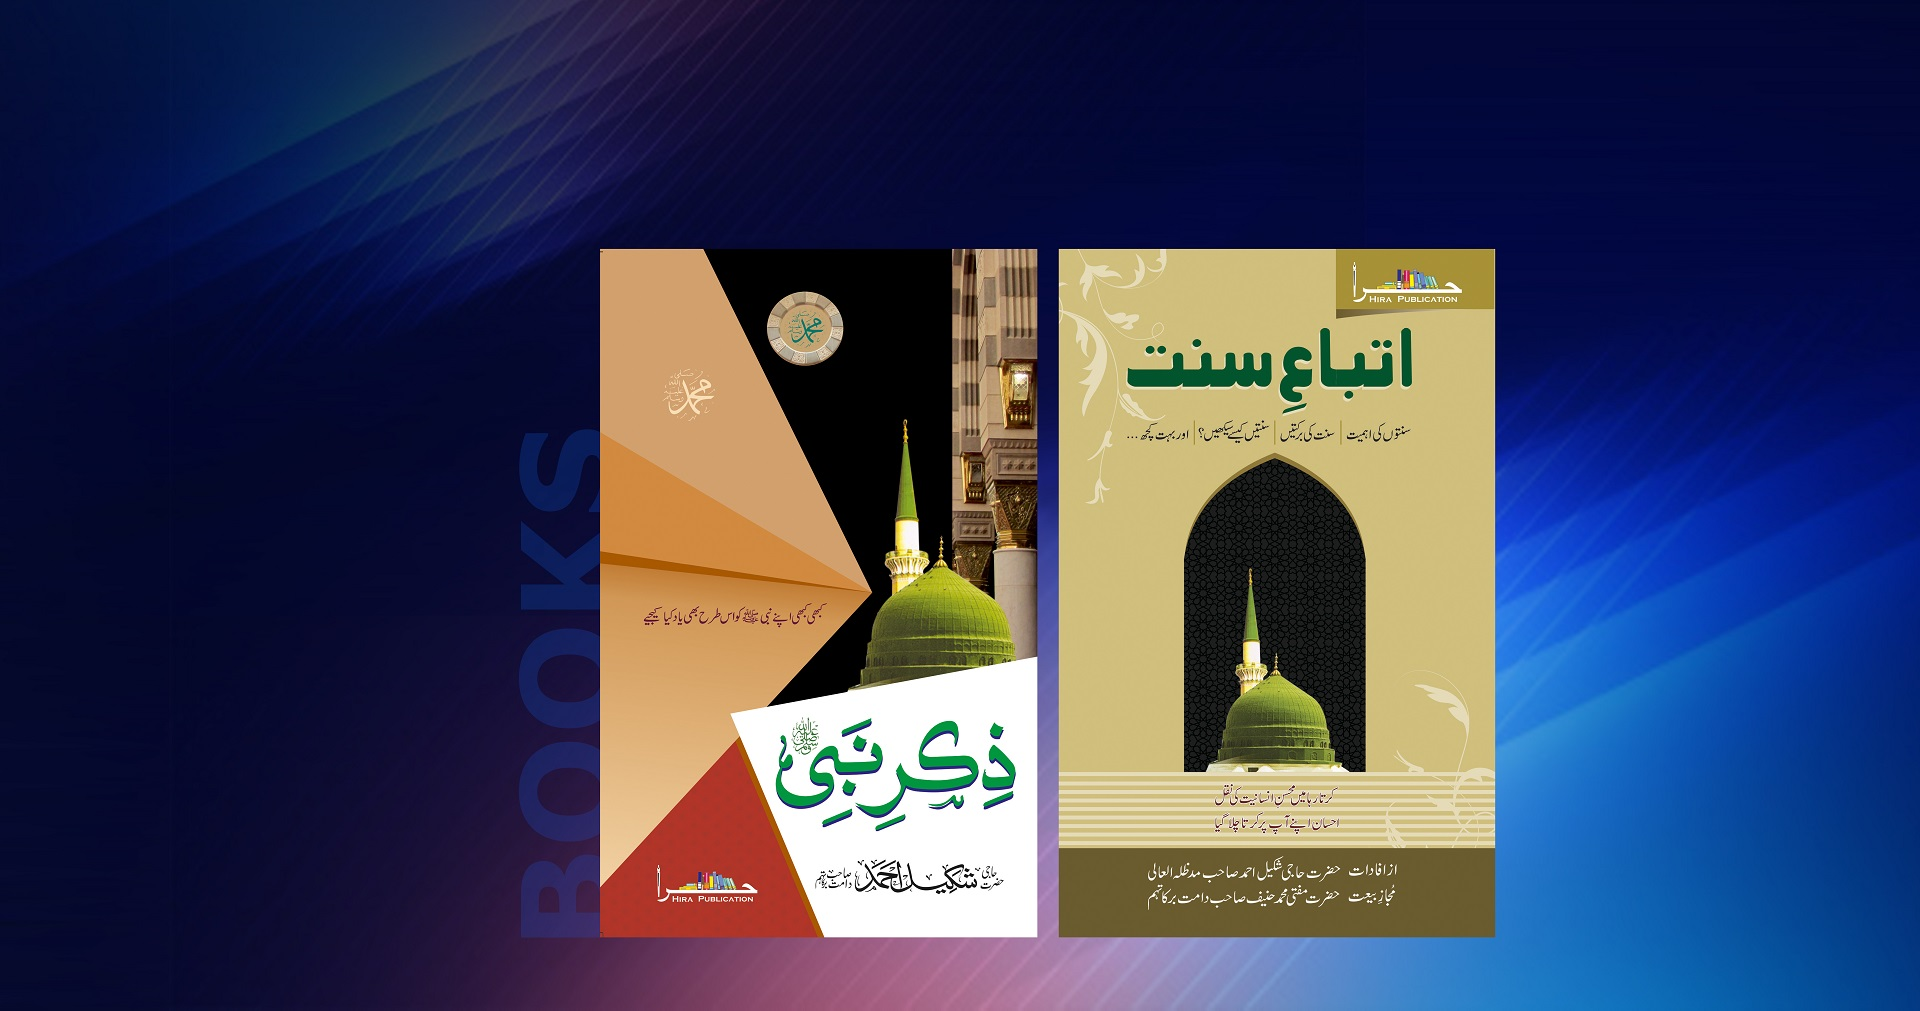
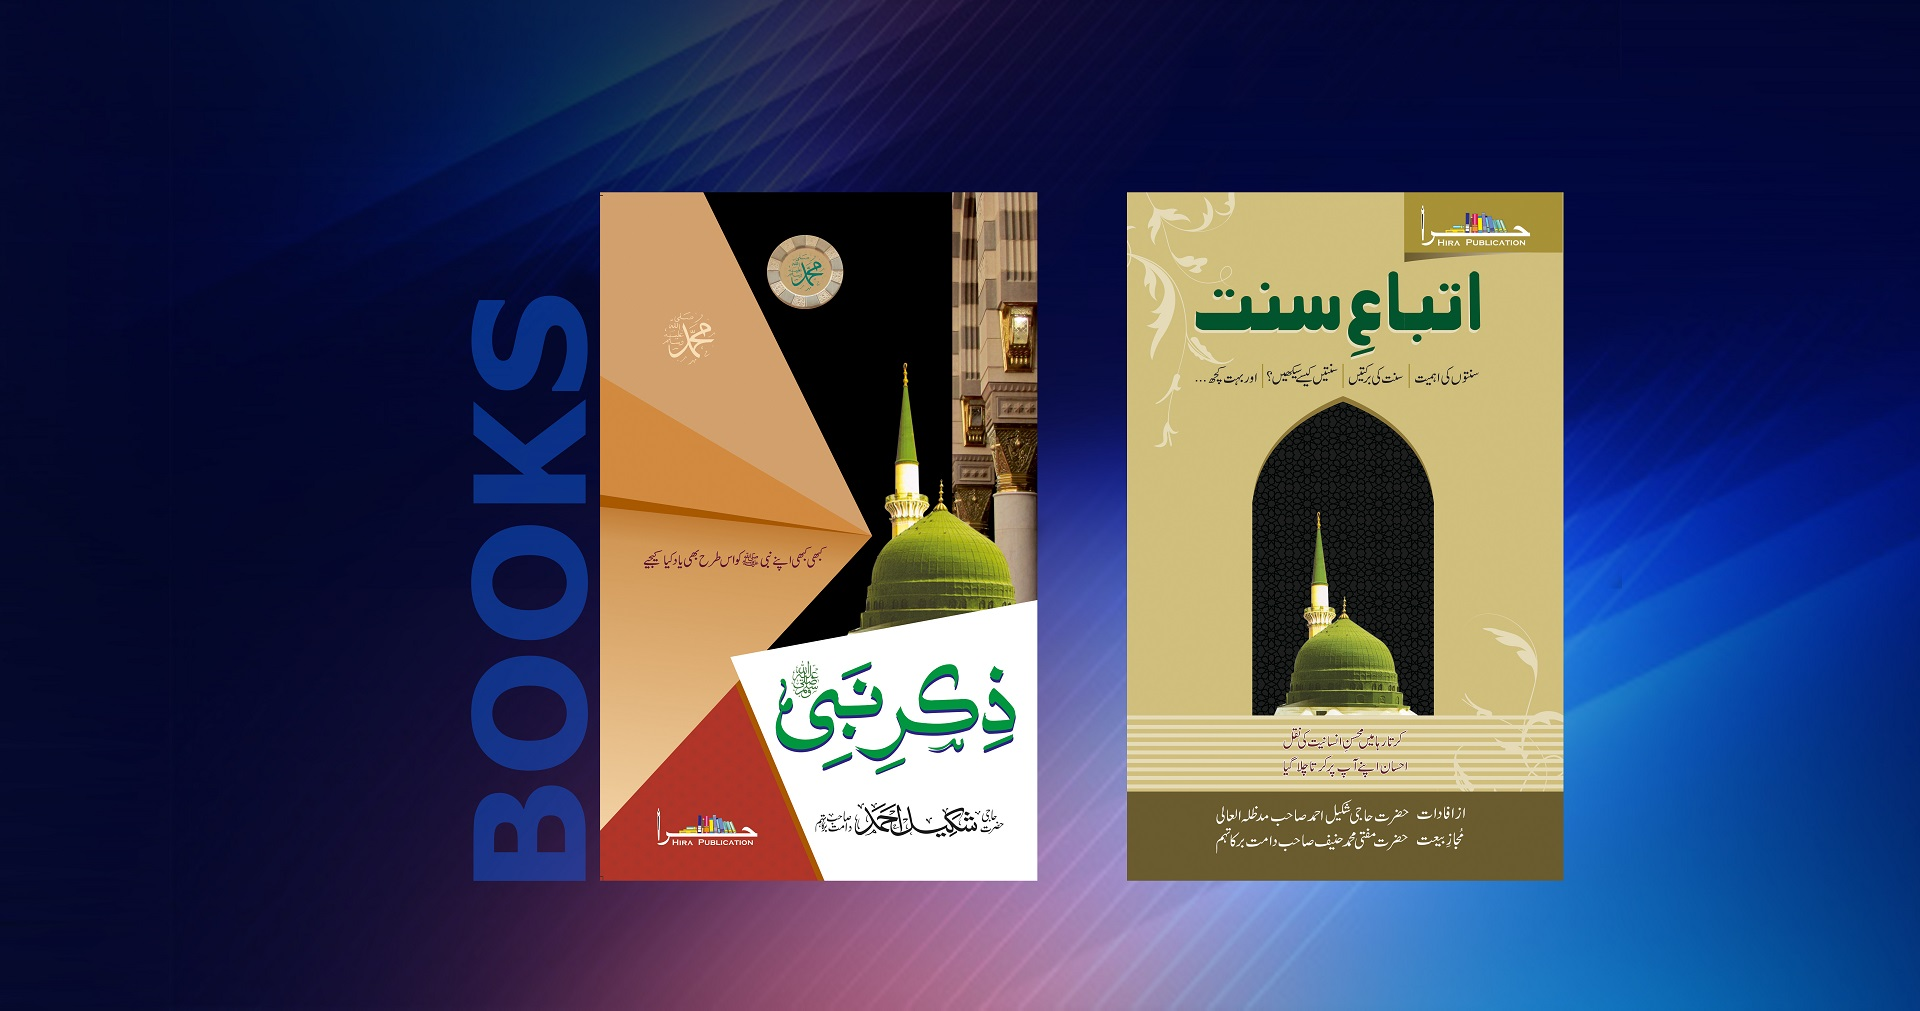
Tweaks to the bk pages

diff --git a/src/styles/books.css b/src/styles/books.css
@@ -2,7 +2,7 @@
     background-image: url('../images/bk.jpg');
     /* background-image: url('../images/bk-bg4.jpg'); */
     /* background-image: url(https://images.unsplash.com/photo-1482686115713-0fbcaced6e28?ixlib=rb-1.2.1&ixid=eyJhcHBfaWQiOjEyMDd9&auto=format&fit=crop&w=1947&q=80); */
-    background-position: 40% 30%;
+    background-position: 40% 45%;
     /* background-position: 40% 60%; */
     /* background-position: 40% 91%; */
     height: 65vh;
@@ -22,19 +22,29 @@
 
     .bk-header .ant-carousel {
         height: 65vh;
-        background-position: 24% 20%;
+        background-position: 30% 20%;
+    }
+}
+
+@media (max-width: 400px) {
+    .bk-header .ant-carousel {
+        height: 65vh;
+        background-position: 23% 20%;
     }
 }
 
 .base-books {
     height: 1vh;
-    background-color: rgb(157, 124, 145);
+    background-color: #c5a781;
+}
+
+.base-books-2 {
+    height: 1vh;
+    background-color: #b03327;
 }
 
 .bk-background {
-    /* background-color: #dd87cb; */
-    /* background-color: #fdaff0; */
-    background-color: #9d7c91;
+    background-color: #ecc896;
     height: 100vh;
 }
 

diff --git a/src/containers/books/index.js b/src/containers/books/index.js
@@ -23,6 +23,7 @@ class Books extends Component {
 					</Carousel>
 					</Col>
           		</Row>
+				  <div className="base-books-2"></div>
 				  {/* <div className="line1" style={{height: '1vh',
 	backgroundColor: '#efaad9'}}></div> */}
 	{/* <div className="line1" style={{height: '1vh',
